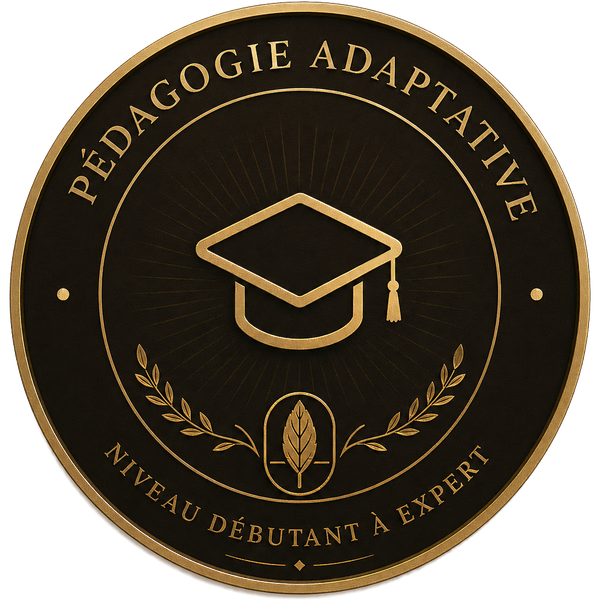
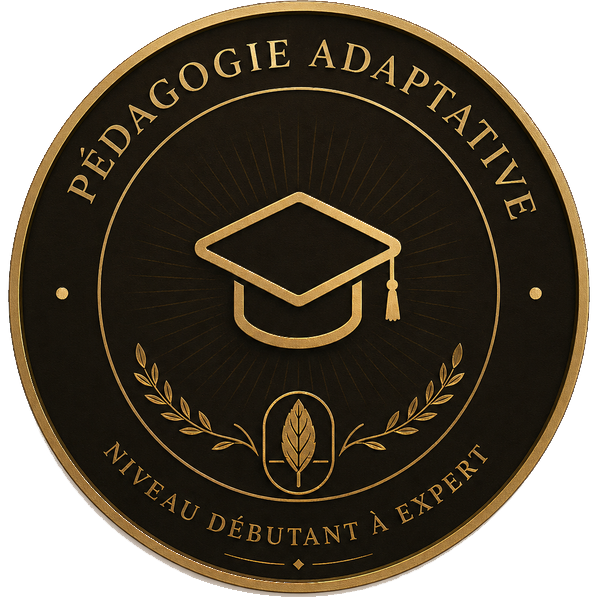
auto-commit for 68d4a0e6-3fbe-4cae-a1f4-de2b88610abd

diff --git a/frontend/src/pages/CompetencesWinston.js b/frontend/src/pages/CompetencesWinston.js
@@ -97,7 +97,7 @@ const CertificateCard = ({ comp }) => {
 
       <div className="relative z-10 px-8 py-10 md:px-12 md:py-14 flex flex-col items-center text-center">
         {/* Logo / Illustration - médaillon plein cercle */}
-        <div className="certificate-medal w-40 h-40 md:w-48 md:h-48 mb-6 flex items-center justify-center rounded-full bg-gradient-to-br from-[#D4A024]/10 to-[#7A2020]/10 border border-[#D4A024]/30 overflow-hidden transition-transform duration-500">
+        <div className="certificate-medal w-40 h-40 md:w-48 md:h-48 mb-6 flex items-center justify-center rounded-full overflow-hidden transition-transform duration-500">
           {!logoError ? (
             <img
               src={comp.logo}
